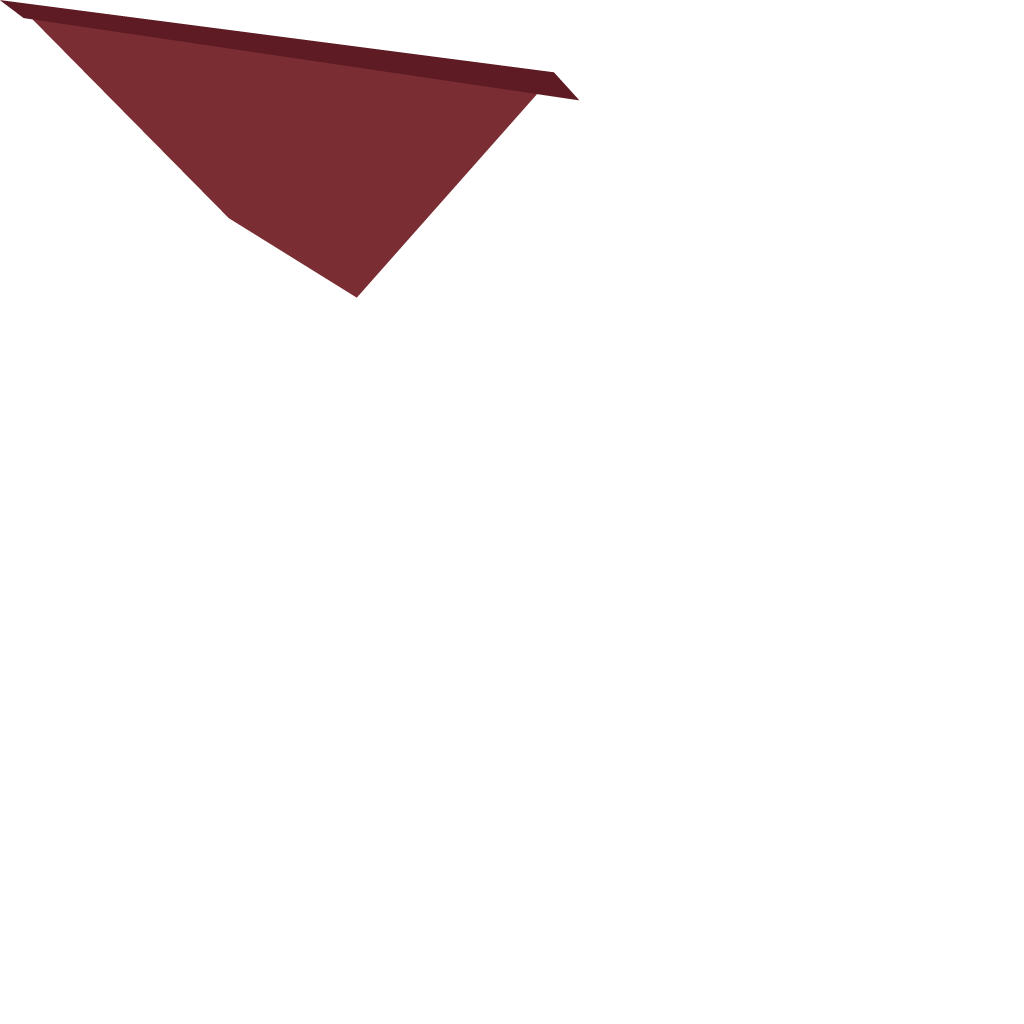
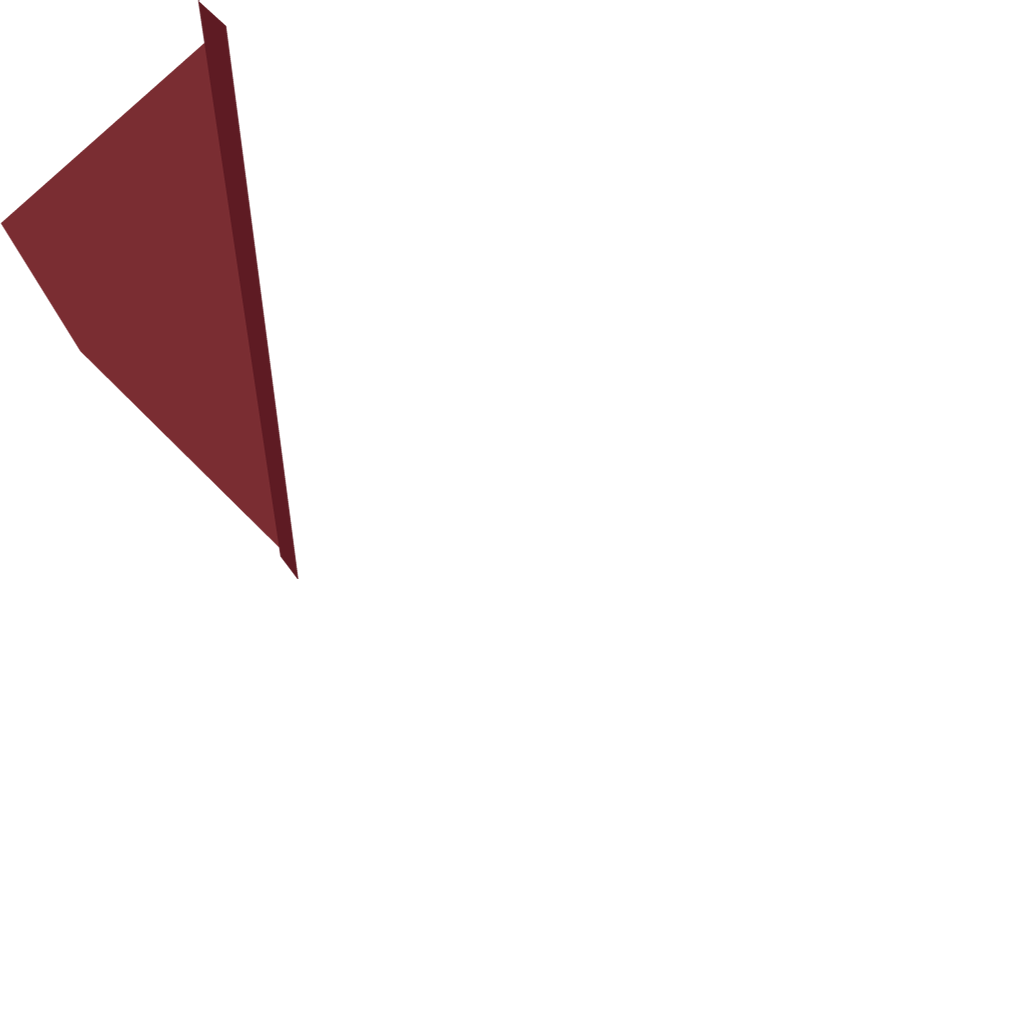
Dragon wings
Replacing hands and default hand joints for wings

Changed region(s): [[0.0, 0.0, 0.5625, 0.5625]]

diff --git a/vox/Source/vox/src/PuppetCharacterDragon.cpp b/vox/Source/vox/src/PuppetCharacterDragon.cpp
@@ -12,10 +12,10 @@
 PuppetCharacterDragon::PuppetCharacterDragon(Box2DWorld * _world, int16 _categoryBits, int16 _maskBits, int16 _groupIndex):
 	PuppetCharacter(new PuppetTexturePack(\
 		SlayTheDragonResourceManager::dragonTorso,
-		SlayTheDragonResourceManager::dragonLowerWing,
+		SlayTheDragonResourceManager::dragonUpperWing,
 		SlayTheDragonResourceManager::dragonHead,
-		PuppetResourceManager::head1, 
-		PuppetResourceManager::hand1,
+		SlayTheDragonResourceManager::dragonMouth, 
+		SlayTheDragonResourceManager::dragonLowerWing,
 		PuppetResourceManager::face1,
 		5.0f
 	), true, _world, _categoryBits, _maskBits, _groupIndex),
@@ -28,6 +28,30 @@ PuppetCharacterDragon::PuppetCharacterDragon(Box2DWorld * _world, int16 _categor
 	for(auto c : components) {
 		(*c)->body->SetGravityScale(0.0f);
 	}
+	
+	world->b2world->DestroyJoint(handRight->body->GetJointList()->joint);
+	world->b2world->DestroyJoint(handLeft->body->GetJointList()->joint);
+
+	// right wing
+	b2WeldJointDef rhrej;
+	rhrej.bodyA = armRight->body;
+	rhrej.bodyB = handRight->body;
+	rhrej.localAnchorA.Set(armRight->getCorrectedWidth(), -0.2 * armRight->getCorrectedHeight());
+	rhrej.localAnchorB.Set(0.6 * handRight->getCorrectedWidth(), 0.9 * handRight->getCorrectedHeight());
+	rhrej.collideConnected = false;
+	rhrej.referenceAngle = glm::radians(0.f);
+	world->b2world->CreateJoint(&rhrej);
+
+	// left wing
+	b2WeldJointDef lhlej;
+	lhlej.bodyA = armLeft->body;
+	lhlej.bodyB = handLeft->body;
+	lhlej.localAnchorA.Set(-armLeft->getCorrectedWidth(), -0.2 * armLeft->getCorrectedHeight());
+	lhlej.localAnchorB.Set(-0.6 * handLeft->getCorrectedWidth(), 0.9 * handLeft->getCorrectedHeight());
+	lhlej.collideConnected = false;
+	lhlej.referenceAngle = glm::radians(0.f);
+	world->b2world->CreateJoint(&lhlej);
+	
 	//torso->body->SetGravityScale(0.0f);
 }
 

diff --git a/vox/Source/vox/src/SlayTheDragonResourceManager.cpp b/vox/Source/vox/src/SlayTheDragonResourceManager.cpp
@@ -16,8 +16,8 @@ TextureSampler * SlayTheDragonResourceManager::archerHat		= new TextureSampler(n
 TextureSampler * SlayTheDragonResourceManager::dragonHead		= new TextureSampler(new Texture("../assets/hurly-burly/DragonAssets/DragonHead.png", 1024, 1024, true, true), 552, 388);
 TextureSampler * SlayTheDragonResourceManager::dragonMouth		= new TextureSampler(new Texture("../assets/hurly-burly/DragonAssets/DragonMouth.png", 1024, 1024, true, true), 262, 270);
 TextureSampler * SlayTheDragonResourceManager::dragonTorso		= new TextureSampler(new Texture("../assets/hurly-burly/DragonAssets/DragonTorso.png", 1024, 1024, true, true), 417, 797);
-TextureSampler * SlayTheDragonResourceManager::dragonUpperWing	= new TextureSampler(new Texture("../assets/hurly-burly/DragonAssets/DragonUpperWing.png", 1024, 1024, true, true), 580, 326);
-TextureSampler * SlayTheDragonResourceManager::dragonLowerWing	= new TextureSampler(new Texture("../assets/hurly-burly/DragonAssets/DragonLowerWing.png", 1024, 1024, true, true), 578, 298);
+TextureSampler * SlayTheDragonResourceManager::dragonUpperWing	= new TextureSampler(new Texture("../assets/hurly-burly/DragonAssets/DragonUpperWing.png", 1024, 1024, true, true), 326, 580);
+TextureSampler * SlayTheDragonResourceManager::dragonLowerWing	= new TextureSampler(new Texture("../assets/hurly-burly/DragonAssets/DragonLowerWing.png", 1024, 1024, true, true), 298, 578);
 
 TextureSampler * SlayTheDragonResourceManager::itemBow	= new TextureSampler(new Texture("../assets/hurly-burly/WeaponAssets/Bow.png", 1024, 1024, true, true), 99, 474);
 TextureSampler * SlayTheDragonResourceManager::itemArrow	= new TextureSampler(new Texture("../assets/hurly-burly/WeaponAssets/Arrow.png", 1024, 1024, true, true), 77, 539);

diff --git a/vox/Source/vox/src/PuppetCharacter.cpp b/vox/Source/vox/src/PuppetCharacter.cpp
@@ -47,8 +47,8 @@ PuppetCharacter::PuppetCharacter(PuppetTexturePack * _texturePack, bool _ai, Box
 
 	head = new Box2DSprite(_world, b2_dynamicBody, false, nullptr, new Transform(), texPack->headTex->width, texPack->headTex->height, texPack->headTex->texture, componentScale * texPack->scale);
 	face = new Box2DSprite(_world, b2_dynamicBody, false, nullptr, new Transform(), texPack->faceTex->width, texPack->faceTex->height, texPack->faceTex->texture, componentScale * texPack->scale);
-	handLeft = new Box2DSprite(_world, b2_dynamicBody, false, nullptr, new Transform(), texPack->handTex->width, texPack->handTex->height, texPack->handTex->texture, componentScale * texPack->scale);
-	handRight = new Box2DSprite(_world, b2_dynamicBody, false, nullptr, new Transform(), texPack->handTex->width, texPack->handTex->height, texPack->handTex->texture, componentScale * texPack->scale);
+	handLeft = new Box2DSprite(_world, b2_dynamicBody, false, nullptr, new Transform(), texPack->handTex->width, texPack->handTex->height, texPack->handTex->texture, componentScale*0.5f * texPack->scale);
+	handRight = new Box2DSprite(_world, b2_dynamicBody, false, nullptr, new Transform(), texPack->handTex->width, texPack->handTex->height, texPack->handTex->texture, componentScale*0.5f * texPack->scale);
 
 	torso = new Box2DSprite(_world, b2_dynamicBody, false, nullptr, new Transform(), texPack->torsoTex->width, texPack->torsoTex->height, texPack->torsoTex->texture, componentScale*0.5f * texPack->scale);
 	armLeft = new Box2DSprite(_world, b2_dynamicBody, false, nullptr, new Transform(), texPack->armTex->width, texPack->armTex->height, texPack->armTex->texture, componentScale*0.5f * texPack->scale);

diff --git a/vox/Source/vox/src/SlayTheDragon.cpp b/vox/Source/vox/src/SlayTheDragon.cpp
@@ -32,7 +32,7 @@
 
 SlayTheDragon::SlayTheDragon(PuppetGame* _game):
 	PuppetScene(_game, 60),
-	fort(new Fortification(world, PuppetGame::kSTRUCTURE, PuppetGame::kITEM, 30)),
+	fort(new Fortification(world, PuppetGame::kSTRUCTURE, PuppetGame::kITEM, 10)),
 	dragon(new PuppetCharacterDragon(world, PuppetGame::kPLAYER, -1, -20)),
 	playerCharacter1(new PuppetCharacterArcher(false, 0, world, PuppetGame::kPLAYER, PuppetGame::kGROUND | PuppetGame::kSTRUCTURE | PuppetGame::kITEM | PuppetGame::kPLAYER | PuppetGame::kBEHAVIOUR | PuppetGame::kBOUNDARY, -1)),
 	playerCharacter2(new PuppetCharacterArcher(false, 1, world, PuppetGame::kPLAYER, PuppetGame::kGROUND | PuppetGame::kSTRUCTURE | PuppetGame::kITEM | PuppetGame::kPLAYER | PuppetGame::kBEHAVIOUR | PuppetGame::kBOUNDARY, -2)),
@@ -50,8 +50,8 @@ SlayTheDragon::SlayTheDragon(PuppetGame* _game):
 	*/
 	
 	fort->setShader(shader, true);
-	fort->addToLayeredScene(this, 1);
-	addChild(fort, 1);
+	//fort->addToLayeredScene(this, 1);
+	//addChild(fort, 1);
 	fort->translateComponents(glm::vec3(40, 0.f, 0.f));
 
 	players.push_back(playerCharacter1);
